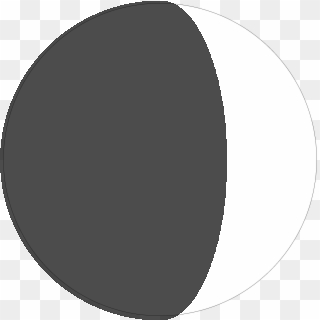
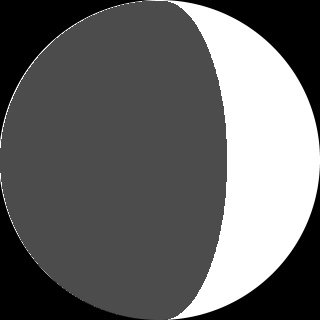
black background on model

Changed region(s): [[0.5312, 0.0, 1.0, 1.0], [0.0, 0.5625, 0.4375, 1.0], [0.0, 0.0, 0.4375, 0.4375]]

diff --git a/main.py b/main.py
@@ -1,0 +1,46 @@
+import cv2
+from skimage.metrics import structural_similarity as ssim
+import matplotlib
+matplotlib.use('TkAgg')
+import matplotlib.pyplot as plt
+def resize_images(img1, img2):
+    # Charger les images
+    img1 = cv2.imread(img1)
+    img2 = cv2.imread(img2)
+
+    # Redimensionner les images pour qu'elles aient la même taille
+    img2 = cv2.resize(img2, (img1.shape[1], img1.shape[0]))
+
+    return img1, img2
+
+def compare_images(image1, image2):
+    # Convertir les images en niveaux de gris
+    img1_gray = cv2.cvtColor(image1, cv2.COLOR_BGR2GRAY)
+    img2_gray = cv2.cvtColor(image2, cv2.COLOR_BGR2GRAY)
+
+    # Calculer le SSIM
+    similarity_index, _ = ssim(img1_gray, img2_gray, full=True)
+
+    return similarity_index
+
+# Exemple d'utilisation
+image_path1 = "Images/Paysages/Ciel03-edit.jpg"
+image_path2 = "Images/phases/7.png"
+
+# Charger et redimensionner les images
+img1, img2 = resize_images(image_path1, image_path2)
+
+# Calculer le SSIM
+compatibility = compare_images(img1, img2)
+print(f"Taux de compatibilité : {compatibility}")
+
+# Afficher les images pour comparaison visuelle (facultatif)
+plt.subplot(1, 2, 1)
+plt.imshow(cv2.cvtColor(img1, cv2.COLOR_BGR2RGB))
+plt.title('Image 1')
+
+plt.subplot(1, 2, 2)
+plt.imshow(cv2.cvtColor(img2, cv2.COLOR_BGR2RGB))
+plt.title('Image 2')
+
+plt.show()

diff --git a/gen.py b/gen.py
@@ -6,7 +6,7 @@ import numpy
 phases = numpy.arange(-1.0, 1.0, 2/27.3)
 for idphase, phase in enumerate(phases):
     print(phase)
-    with Image(filename='./images/white_circle.png') as img:
+    with Image(filename='./images/white_circle.jpg') as img:
         radius = img.height // 2
         with Drawing() as draw:
             draw.fill_color = Color("rgba(0, 0, 0, 0.7)")

diff --git a/test_lolo.py b/test_lolo.py
@@ -1,5 +1,7 @@
 import cv2
 from skimage.metrics import structural_similarity as ssim
+import matplotlib
+matplotlib.use('TkAgg')
 import matplotlib.pyplot as plt
 
 def resize_images(img1, img2):
